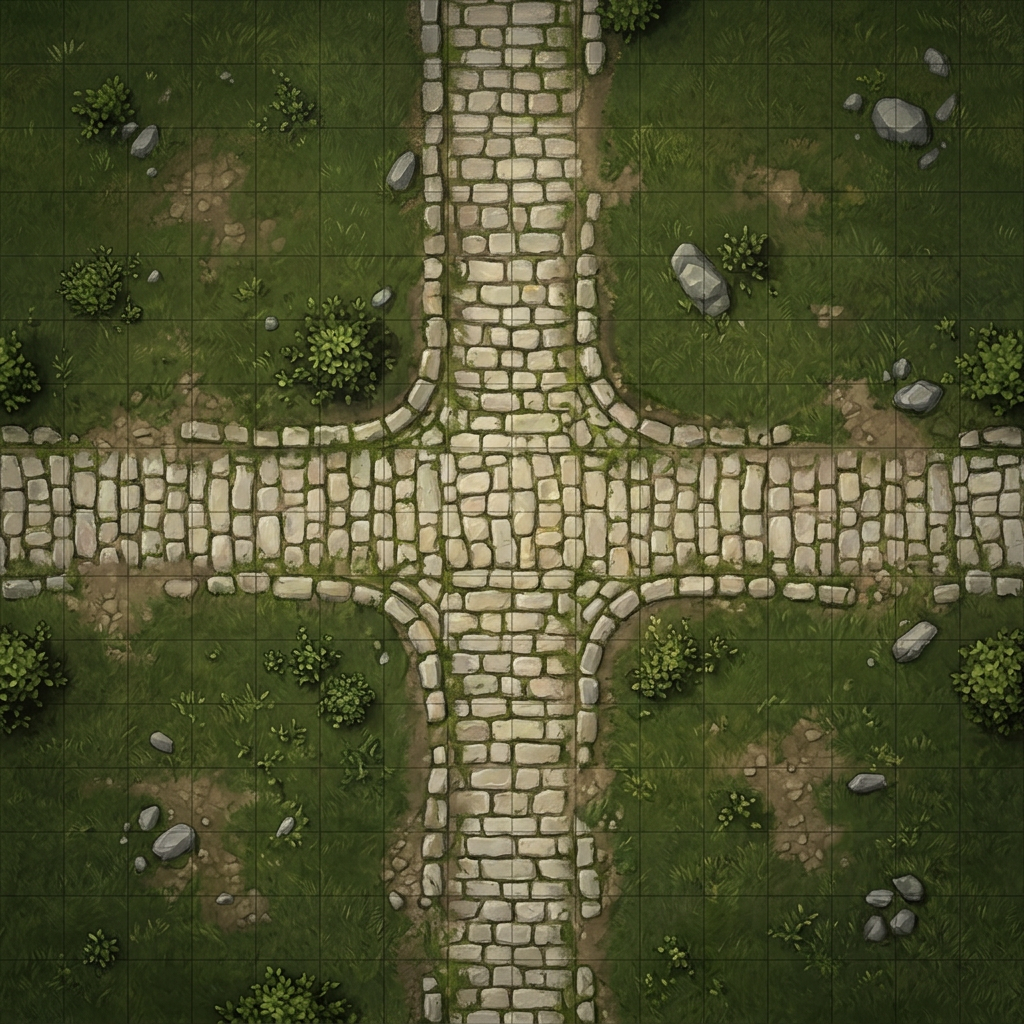
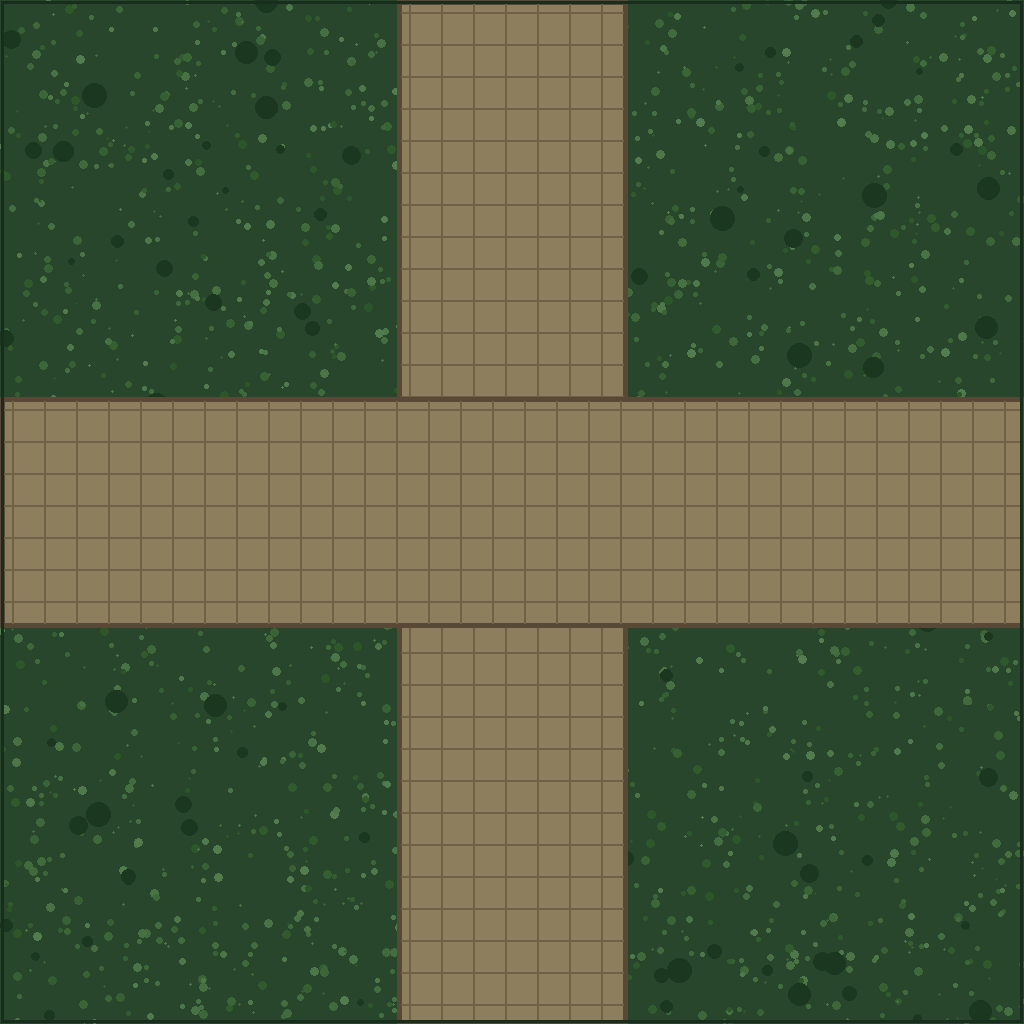
Add exact top-down faction castle maps

diff --git a/tests/test_neutral_tiles.py b/tests/test_neutral_tiles.py
@@ -2,6 +2,7 @@
 
 python3 tests/test_neutral_tiles.py
 """
+import asyncio
 import os
 import sys
 from pathlib import Path
@@ -57,6 +58,42 @@ def test_road_shapes():
           "три соседа → T-перекрёсток")
 
 
+def test_castle_overviews():
+    from core.castle_images import CASTLE_IMAGES
+
+    print("\n— Фракционные замки 25×25 —")
+    expected = {"Замок Рассвета", "Замок Теней", "Замок Глубин", "Замок Пепла"}
+    check(set(CASTLE_IMAGES) == expected, "есть обзор для каждого замка фракции")
+    for name, url in CASTLE_IMAGES.items():
+        path = ROOT / "admin/static" / url.removeprefix("/static/")
+        image = Image.open(path)
+        check(image.size == (1000, 1000), f"{name}: поле 25×25 по 40px")
+
+
+async def test_castle_backfill():
+    from sqlalchemy.ext.asyncio import AsyncSession, async_sessionmaker, create_async_engine
+    from core.database import Base
+    from core.castle_images import ensure_castle_images
+    from core.models import Location
+
+    print("\n— Накат фонов замков на старую БД —")
+    engine = create_async_engine("sqlite+aiosqlite:///:memory:")
+    async with engine.begin() as conn:
+        await conn.run_sync(Base.metadata.create_all)
+    Session = async_sessionmaker(engine, class_=AsyncSession, expire_on_commit=False)
+    async with Session() as session:
+        generic = Location(name="Замок Рассвета", description="", image_url="https://x/loc1_safe.jpg")
+        manual = Location(name="Замок Теней", description="", image_url="https://artist.example/cult.png")
+        session.add_all((generic, manual))
+        await session.flush()
+        changed = await ensure_castle_images(session)
+        check(changed == 1 and generic.image_url.endswith("order_castle_25.png"),
+              "дефолтный безопасный фон заменяется обзором замка")
+        check(manual.image_url == "https://artist.example/cult.png",
+              "ручной фон замка не перезаписывается")
+    await engine.dispose()
+
+
 def test_terrain_assets_and_scene():
     from core.neutral_tiles import TILE_BACKGROUNDS, background_for
     from core.map_renderer import TILE_SIZE, render_cell_image
@@ -90,6 +127,8 @@ def test_terrain_assets_and_scene():
 
 def main():
     test_road_shapes()
+    test_castle_overviews()
+    asyncio.run(test_castle_backfill())
     test_terrain_assets_and_scene()
     print()
     if FAILED:

diff --git a/core/castle_images.py b/core/castle_images.py
@@ -1,0 +1,43 @@
+"""Строгие top-down обзоры четырёх фракционных замков.
+
+Каждый файл — карта 25×25 клеток: замковый квартал занимает ровно 10×10
+клеток в соответствующем углу. Подходы к нему только ортогональные; никакой
+диагональной дороги в этих обзорных картах нет.
+"""
+from sqlalchemy import select
+
+from core.models import Location
+
+
+CASTLE_IMAGES = {
+    "Замок Рассвета": "/static/castles/order_castle_25.png",
+    "Замок Теней": "/static/castles/cult_castle_25.png",
+    "Замок Глубин": "/static/castles/scavengers_castle_25.png",
+    "Замок Пепла": "/static/castles/guard_castle_25.png",
+}
+
+# Пустой URL и стандартная безопасная заглушка можно безопасно заменить.
+# Внешний/ручной URL админа не трогаем.
+_DEFAULT_SAFE_MARKER = "loc1_safe.jpg"
+
+
+def castle_image(name: str | None) -> str:
+    """Top-down картинка замка по названию локации."""
+    return CASTLE_IMAGES.get((name or "").strip(), "")
+
+
+async def ensure_castle_images(session) -> int:
+    """Поставить обзоры замков на старый сид, не затирая ручные фоны."""
+    result = await session.execute(
+        select(Location).where(Location.name.in_(tuple(CASTLE_IMAGES)))
+    )
+    changed = 0
+    for location in result.scalars():
+        current = (location.image_url or "").strip()
+        if current and _DEFAULT_SAFE_MARKER not in current:
+            continue
+        image = castle_image(location.name)
+        if image and current != image:
+            location.image_url = image
+            changed += 1
+    return changed

diff --git a/core/seed_content.py b/core/seed_content.py
@@ -6,6 +6,7 @@
 """
 from sqlalchemy import select, func
 
+from core.castle_images import ensure_castle_images
 from core.classes import seed_default_classes
 from core.enums import CraftStation, ItemRarity, ItemType
 from core.npc_images import ensure_npc_images
@@ -683,16 +684,17 @@ async def seed_content(session) -> dict:
         "classes": await seed_default_classes(session),
         "materials": await ensure_materials(session),
         "recipes": 0, "drops": 0, "upgrades": 0, "npcs": 0,
-        "npc_images": 0, "mobs": 0,
+        "npc_images": 0, "castle_images": 0, "mobs": 0,
     }
     stats["recipes"] = await ensure_recipes(session)
     stats["drops"] = await ensure_drop_tables(session)
     stats["upgrades"] = await ensure_upgrade_rules(session)
     stats["npcs"] = await ensure_craft_npcs(session)
     stats["auction_npc"] = await ensure_auction_npc(session)
-    # Накатываем портреты и на жителей старой базы, но не меняем ручные
+    # Накатываем портреты и обзоры на старую базу, но не меняем ручные
     # назначения из админки.
     stats["npc_images"] = await ensure_npc_images(session)
+    stats["castle_images"] = await ensure_castle_images(session)
     stats["affinities"] = await ensure_affinities(session)
     stats["mobs"] = await ensure_mob_defaults(session)
     await session.commit()

diff --git a/.arena/session-notes.md b/.arena/session-notes.md
@@ -456,3 +456,18 @@ run_all.py; паритет 22/22 (добавлены «Бродячий торг
   выхода гарантированно проходимы, поэтому вход никогда не показывает
   экран без кнопок перемещения. После правки `engine/dungeon.py` пересобран
   `webapp/bundle.json`. Полный `tests/run_all.py`: 38 наборов зелёные.
+
+## 2026-08-03 — Исправление визуала фракционных замков
+
+- По уточнению убраны диагональные/разностильные дорожные заготовки:
+  `road_straight`, `road_turn`, `road_t`, `road_cross` перерисованы одной
+  строгой top-down сеточной стилистикой и содержат только ортогональные
+  подходы.
+- Добавлены четыре обзорные карты `admin/static/castles/*_castle_25.png`.
+  Каждая — ровно 1000×1000 px (= 25×25 клеток по 40 px): фракционный замок
+  занимает ровно 10×10 в своём углу (Рассвет — СЗ, Тени — СВ, Глубины — ЮЗ,
+  Пепел — ЮВ). Два выхода из замка и дороги направлены только по осям.
+- `core/castle_images.py` назначает эти обзоры четырём базовым локациям
+  при старте, если на них стоял пустой/стандартный `loc1_safe.jpg`; ручной
+  фон админа сохраняется. Внутри замкового квартала (`village`) бот уже
+  использует `location.image_url`, поэтому игрок увидит именно обзор замка.
